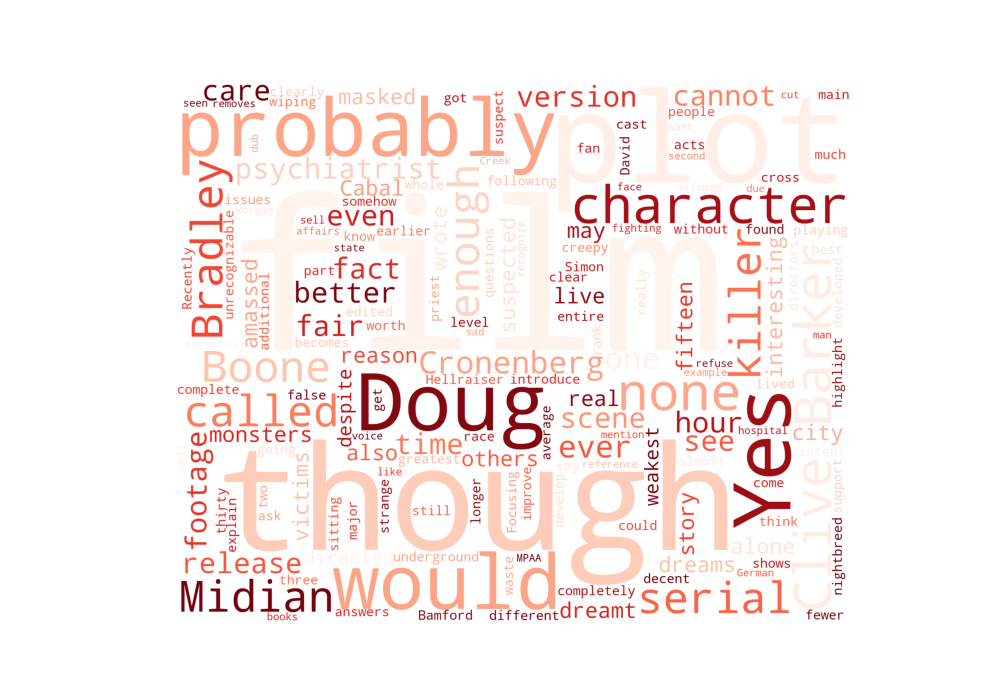
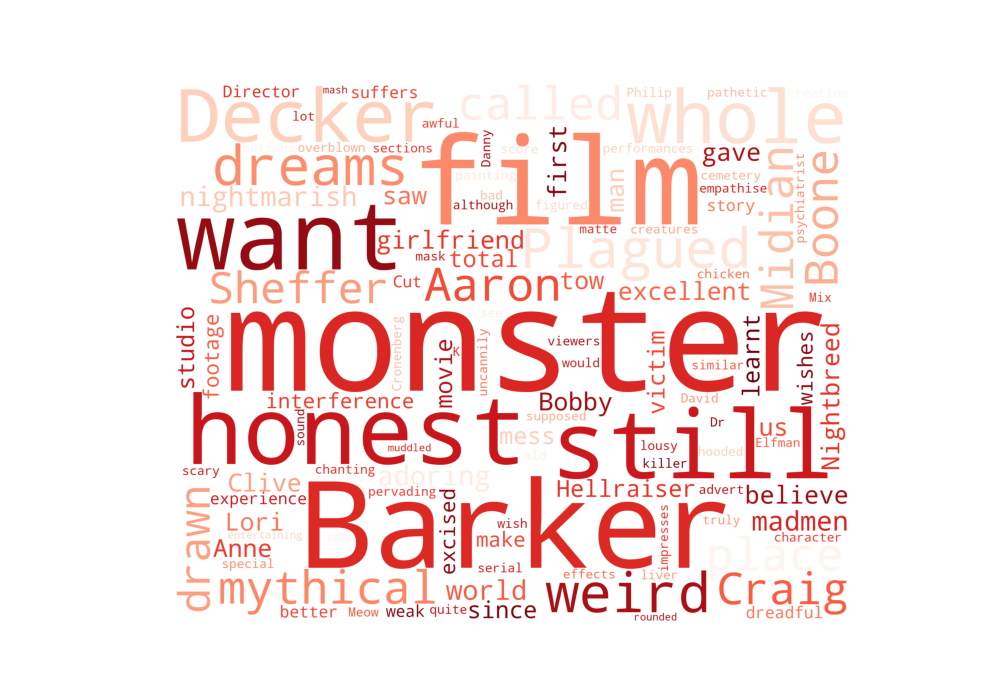
Negative Word Cloud

Changed region(s): [[0.155, 0.12, 0.868, 0.9]]

diff --git a/IMDB-Sentiment-Analysis.py b/IMDB-Sentiment-Analysis.py
@@ -86,7 +86,7 @@ wordcloud = WordCloud(stopwords=stopwords.words('english'),
                   colormap = 'Reds',
                   width=2500,
                   height=2000
-                 ).generate(negativeRatings['Reviews'].iloc[1])
+                 ).generate(negativeRatings['Reviews'].iloc[2])
 plt.figure(1,figsize=(10, 7))
 plt.imshow(wordcloud)
 plt.axis('off')
